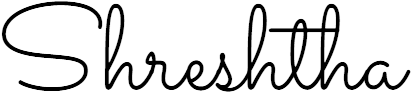
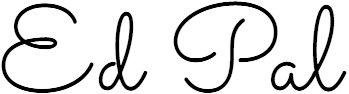
changes

diff --git a/app/components/ServicesComp/ServicesComp.tsx b/app/components/ServicesComp/ServicesComp.tsx
@@ -8,11 +8,11 @@ const servicesContent = [
     heading: "Thesis and Dissertation Support",
     content: [
       {
-        title: "Thesis Writing",
-        text: "Expert guidance and support in crafting a well-structured and impactful thesis",
+        title: "Thesis Writing Consultation",
+        text: "Expert advice and support in structuring and refining your thesis",
       },
       {
-        title: "Dissertation Proposal",
+        title: "Dissertation Proposal Guidance",
         text: "Assistance in developing a compelling and robust dissertation proposal",
       },
     ],
@@ -23,11 +23,11 @@ const servicesContent = [
     content: [
       {
         title: "Statistical Analysis",
-        text: "Professional statistical support to help interpret and present data accurately",
+        text: "Professional statistical support to help interpret, analyse and present data accurately",
       },
       {
         title: "Systematic Literatre Reviews",
-        text: "Comprehensive reviews that synthesize existing research in the field",
+        text: "Comprehensive reviews that synthesize existing research in your field",
       },
       {
         title: "Meta-Analysis",
@@ -41,11 +41,11 @@ const servicesContent = [
     content: [
       {
         title: "Journal Selection",
-        text: "Assistance in finding the most appropriate and high-impact journals for publications",
+        text: "Help in identifying the most appropriate and high-impact journals for your publications",
       },
       {
         title: "Poster Creation",
-        text: "High-quality, visually appealing posters for conference presentations",
+        text: "Creation of high-quality, visually appealing posters for conference presentations",
       },
     ],
   },
@@ -63,7 +63,7 @@ const servicesContent = [
       },
       {
         title: "Referencing",
-        text: "Accurate and consistent referencing in the required citation style",
+        text: "Providing accurate and consistent referencing in the required citation style",
       },
     ],
   },
@@ -73,7 +73,7 @@ const servicesContent = [
     content: [
       {
         title: "",
-        text: "Tailored support to meet unique academic needs and research requirements",
+        text: "Tailored support to meet your unique academic needs like consultation call with the expert of your field",
       },
     ],
   },

diff --git a/app/layout.tsx b/app/layout.tsx
@@ -1,14 +1,15 @@
 import type { Metadata } from "next";
-import { Varela_Round, Sono, Montserrat } from "next/font/google";
+import { Montserrat } from "next/font/google";
 import "./globals.css";
 import { ChakraProvider } from "@chakra-ui/react";
 import Navbar from "./components/Navbar/Navbar";
+import WhatsappFloater from "./components/WhatsappFloater";
 
 const inter = Montserrat({ subsets: ["latin"], weight: ["100", "200", "300", "400", "500", "600", "700", "800", "900"] });
 
 export const metadata: Metadata = {
-  title: "Shreshtha Awasthi",
-  description: "",
+  title: "Ed Pal",
+  description: "Supporting you in your academic needs",
 };
 
 export default function RootLayout({
@@ -18,10 +19,11 @@ export default function RootLayout({
 }>) {
   return (
     <html lang="en">
-      <body className={inter.className}>
+      <body className={inter.className} style={{ position: "relative" }}>
         <ChakraProvider>
           <Navbar />
           {children}
+          <WhatsappFloater />
         </ChakraProvider>
       </body>
     </html>

diff --git a/app/components/Main/Main.tsx b/app/components/Main/Main.tsx
@@ -18,11 +18,7 @@ export default function Main() {
           Your Partner in Academic Success
         </Heading>
         <Text my={10} lineHeight={1.7}>
-          {`Hi there! my name is Shreshtha Awasthi, I'm here to support you through your academic journey.
-            Whether you're a graduate, postgraduate, or PhD student, I offer a
-            range of services to help you succeed at every stage of your research
-            and writing process. Let's achieve your academic goals together
-            with confidence and excellence.`}
+          {`Hi there! I'm here to support you through your academic journey. Whether you're a graduate, postgraduate, or PhD student, I offer a range of consultation services to help you succeed at every stage of your research and writing process. Let's achieve your academic goals together with confidence and excellence.`}
         </Text>
         <ActionBtn msg="LET'S START" link="/#contactus" />
       </GridItem>

diff --git a/app/components/WhatsappFloater.tsx b/app/components/WhatsappFloater.tsx
@@ -1,0 +1,30 @@
+"use client";
+import { Image, keyframes } from "@chakra-ui/react";
+import Link from "next/link";
+import React from "react";
+
+export default function WhatsappFloater() {
+  const sizeAnimation = keyframes`
+  0% { width: 40px; height: 40px; }
+  50% { width: 50px; height: 50px; }
+  100% { width: 40px; height: 40px; }
+`;
+  return (
+    <Link
+      href="https://wa.me/918115524390?text=Hi%20I'm%20interested%20in%20working%20with%20you"
+      target="_blank"
+    >
+      <Image
+        height="40px"
+        width="40px"
+        zIndex={100}
+        position="fixed"
+        left={{ base: "85vw", lg: "93vw" }}
+        bottom="5vh"
+        alt="whatsapp icon"
+        src="/WA.svg"
+        animation={`${sizeAnimation} 2s ease-in-out infinite`}
+      />
+    </Link>
+  );
+}

diff --git a/app/components/ContactUs/ContactUs.tsx b/app/components/ContactUs/ContactUs.tsx
@@ -29,9 +29,7 @@ export default function ContactUs() {
 
   function validatePhno(value: number) {
     let error;
-    if (!value) {
-      error = "Field is required";
-    } else if (value <= 1000000000) {
+    if (value && (value <= 1000000000 || value <= 9999999999)) {
       error = "Please enter valid phone number";
     }
     return error;
@@ -114,7 +112,6 @@ export default function ContactUs() {
                 {({ field, form }: any) => (
                   <FormControl
                     isInvalid={form.errors.phno && form.touched.phno}
-                    isRequired
                   >
                     <FormLabel>Phone number</FormLabel>
                     <Input {...field} placeholder="0000000000" type="number" />

diff --git a/app/components/Navbar/SideDrawer.tsx b/app/components/Navbar/SideDrawer.tsx
@@ -56,7 +56,7 @@ export default function SideDrawer({
           </DrawerBody>
 
           <DrawerFooter justifyContent="center" bgColor="#EEEEEE">
-            <Text color="gray">{"made with ❣ by shreshtha"}</Text>
+            <Text color="gray">{"made with ❣ by ed pal"}</Text>
           </DrawerFooter>
         </DrawerContent>
       </Drawer>

diff --git a/app/components/Footer/Footer.tsx b/app/components/Footer/Footer.tsx
@@ -4,7 +4,7 @@ import React from "react";
 export default function Footer() {
   return (
     <Box bgColor="#FF621A" p={5}>
-      <Text color="white">{"made with 💌 by shreshtha"}</Text>
+      <Text color="white">{"made with 💌 by ed pal"}</Text>
     </Box>
   );
 }
